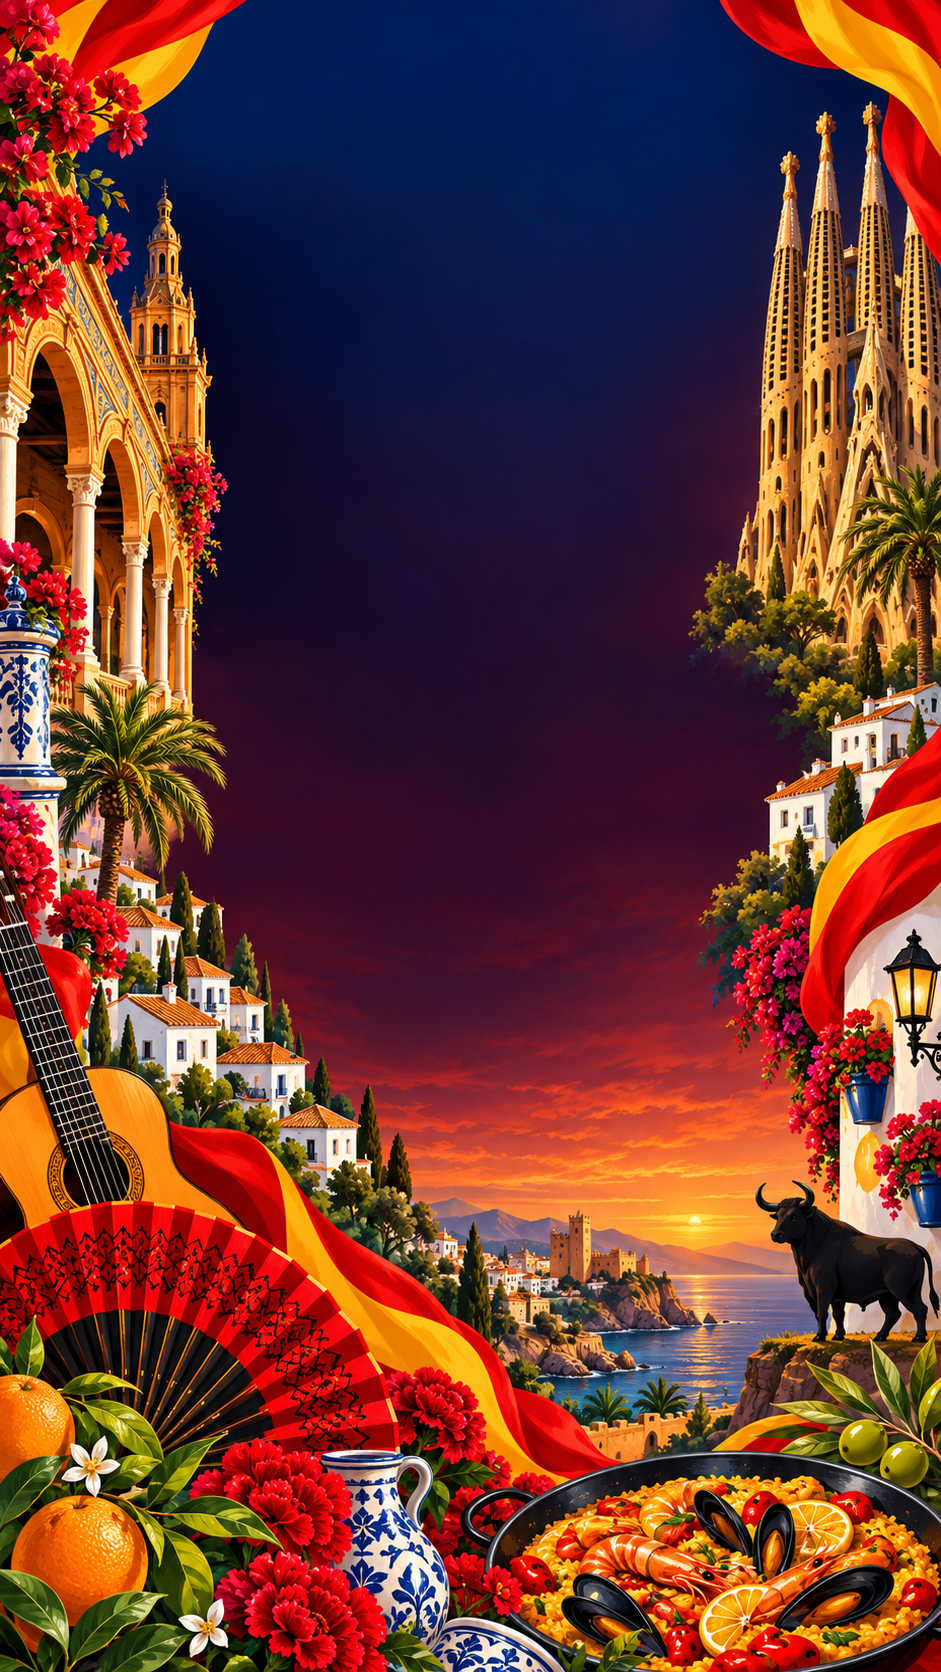
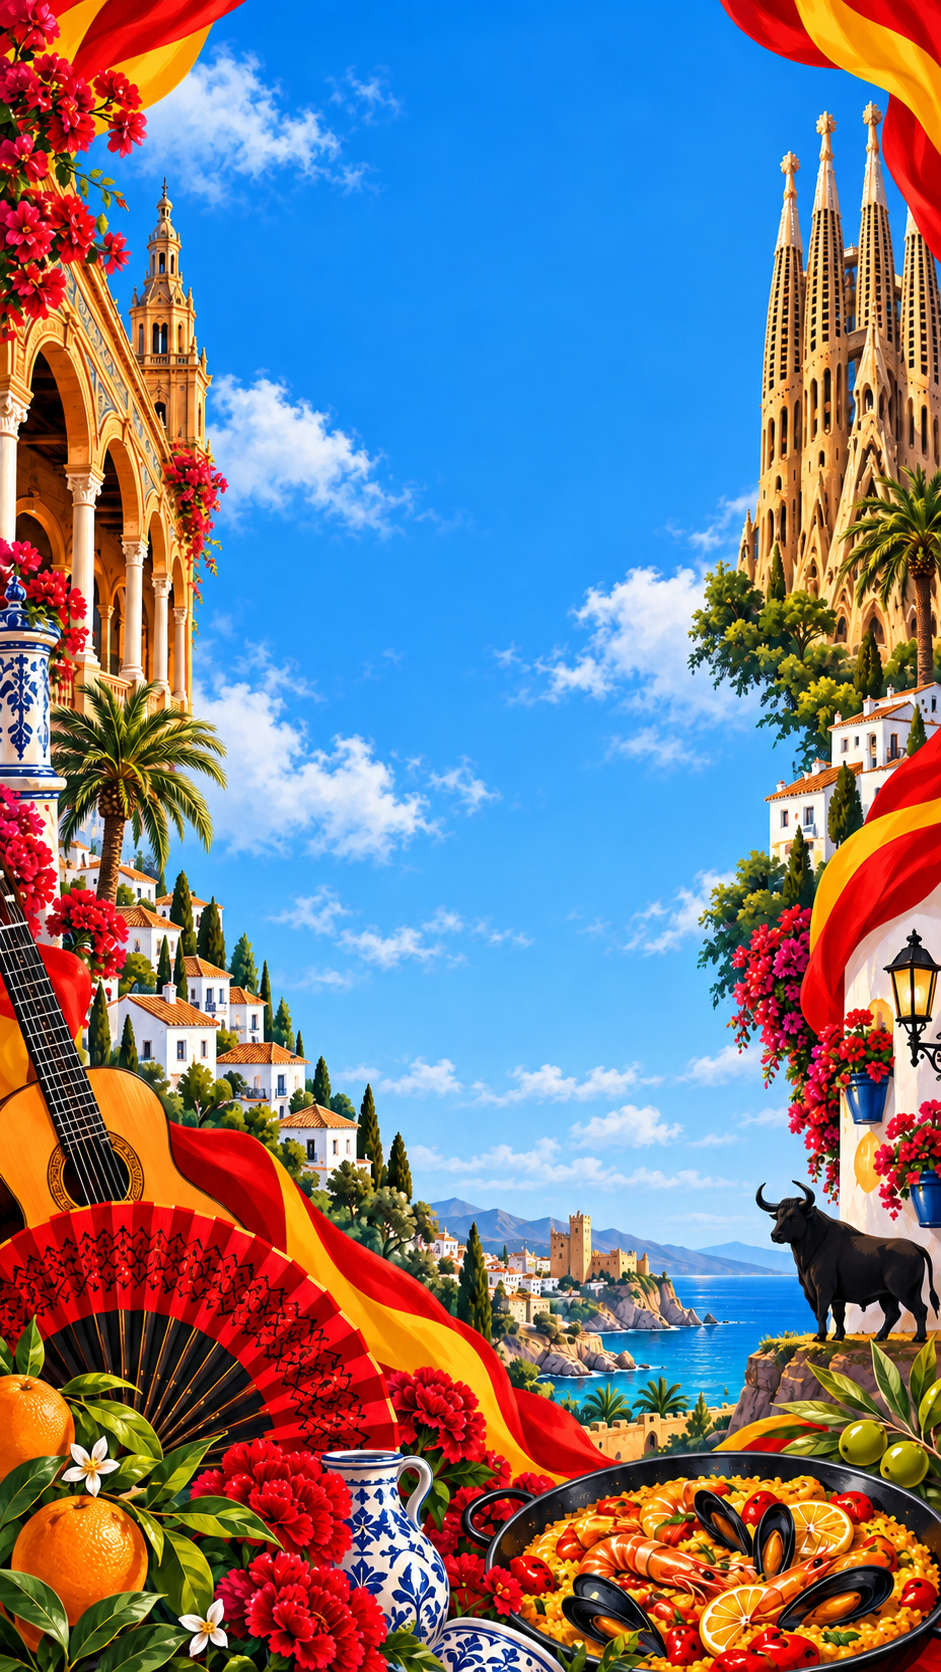
Change Spain kiosk background to a sunny blue daytime sky

diff --git a/public/host.css b/public/host.css
@@ -96,3 +96,7 @@ body[data-phase=countdown] #destinationExamples,body[data-phase=result] #destina
 
 #message{background:rgba(5,14,35,.85);border:1px solid #ffe6a633;border-radius:20px;padding:16px 20px;box-shadow:0 6px 30px #0005}
 #hint{color:#fff0d2}.examples-grid figcaption{text-shadow:0 1px 5px #000,0 1px 8px #000}
+
+/* Sunny daytime sky with legible navy headings. */
+#stage::before{background:none}
+header,header .brand,header .eyebrow,.examples-title,.examples-note,.examples-grid figcaption{color:#071d40;text-shadow:0 1px 3px #ffffffc0,0 0 12px #ffffff80}
